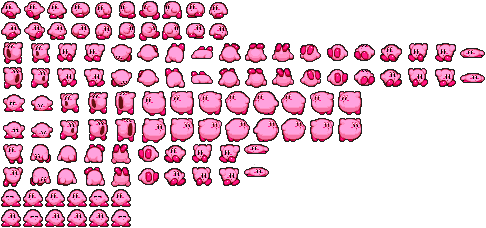
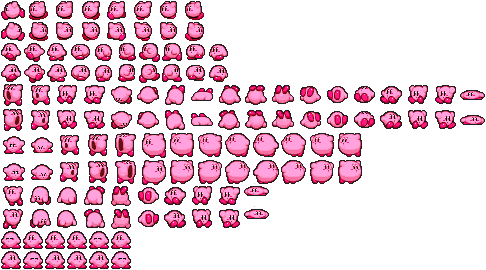
dash 추가
구현중

diff --git a/Kirby/main.py b/Kirby/main.py
@@ -2,6 +2,7 @@ import pico2d
 from pico2d import *
 from enum import Enum
 import pygame
+import time
 
 # global variable
 WINDOW_WIDTH = 800
@@ -11,6 +12,8 @@ MASS = 0.04
 running = True
 clock = pygame.time.Clock()
 FPS = 90
+start = 0
+finish = 0
 
 
 class Status(Enum):
@@ -19,6 +22,7 @@ class Status(Enum):
     Jump = 2
     Fly = 3
     Drop = 4
+    Run = 5
 
 
 class object:
@@ -51,6 +55,7 @@ class Kirby(object):
         self.animating = False
         self.fly_flag = False
         self.collide_land = False
+        self.can_dash = False
 
     # draw player
     def draw(self):
@@ -65,6 +70,12 @@ class Kirby(object):
     def move(self):
         if stage.move_map == 0 or stage.move_map == 1200:
             self.posX += self.dx
+
+    def move_change_stat(self, dx, dy, look_at_left):
+        self.dx += dx
+        self.dy += dy
+        self.look_at_left = look_at_left
+
 
     # player screen collider
     def check_screen(self):
@@ -100,6 +111,8 @@ class Kirby(object):
             self.set_status(27, 24, 54, 48, 18, 138)
         elif self.status == Status.Work:
             self.set_status(23, 21, 46, 42, 10, 186)
+        elif self.status == Status.Run:
+            self.set_status(25, 23, 50, 46, 8, 228)
 
     def change_status(self, status):
         self.status = status
@@ -211,6 +224,8 @@ class stage(object):
 
 def handle_events():
     global running
+    global start
+    global finish
     event_s = get_events()
     for event in event_s:
         if event.type == SDL_QUIT:
@@ -220,13 +235,11 @@ def handle_events():
             if event.key == SDLK_RIGHT:
                 if player.posY == 100:
                     player.change_status(Status.Work)
-                player.dx += 3
-                player.look_at_left = False
+                player.move_change_stat(3, 0, False)
             elif event.key == SDLK_LEFT:
                 if player.posY == 100:
                     player.change_status(Status.Work)
-                player.dx -= 3
-                player.look_at_left = True
+                player.move_change_stat(-3, 0, True)
             elif event.key == SDLK_UP:
                 player.dy += 2
             elif event.key == SDLK_DOWN:
@@ -248,13 +261,14 @@ def handle_events():
         # --- key up events
         elif SDL_KEYUP == event.type:
             if event.key == SDLK_RIGHT:
+
+                player.move_change_stat(-3, 0, player.look_at_left)
                 if player.posY == 100:
                     player.change_status(Status.Idle)
-                player.dx -= 3
             elif event.key == SDLK_LEFT:
+                player.move_change_stat(3, 0, player.look_at_left)
                 if player.posY == 100:
                     player.change_status(Status.Idle)
-                player.dx += 3
             elif event.key == SDLK_UP:
                 player.dy -= 2
             elif event.key == SDLK_DOWN:
